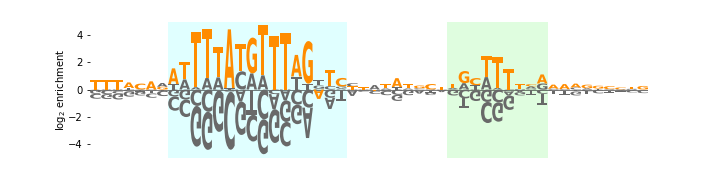
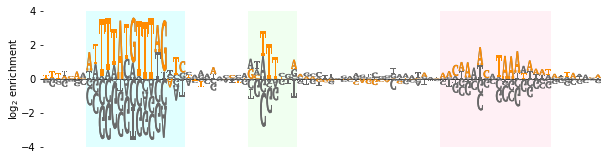
Adding updated ARS figure to examples in documentation. Updated some references in examples also

diff --git a/docs/examples.rst b/docs/examples.rst
@@ -63,8 +63,9 @@ and lables is also demonstrated::
 5' Splice Sites in the Human Genome
 -----------------------------------
 
-We now illustrate a probability generated from 202,764 5'ss sequences in the human transcriptome.
-The data are obtained from [#wong2018]_.
+
+We now illustrate a probability logo computed from all annotated 5' splices sites in the human genome.
+The data are obtained from [#frankish2019]_.
 
 ::
 
@@ -106,8 +107,8 @@ The data are obtained from [#wong2018]_.
 .. image:: _static/examples_images/1C.png
 
 The dashed line indicates intron/exon boundaries. This example shows the use of the keyword argument
-**fade_probabilities**; when True, the characters in each stack are assigned an alpha value equal to
-their height. Stacking order of characters is also set by using the keyword argument **stack_order**:
+**fade_probabilities**; when True, the characters in each stack are assigned an alpha (representing transparency)
+value equal to their height. Stacking order of characters is also set by using the keyword argument **stack_order**:
 if stack_order =  'small_on_top', glyphs are stacked away from x-axis in order of decreasing absolute value.
 **vpad** allows whitespace to be set above and below each character.
 
@@ -115,7 +116,7 @@ Protein Sequence Logo: WW domain
 --------------------------------
 
 We now turn to protein sequence logos. We focus on the WW domain [#WWdomain]_, with the eponymous positions of this
-domain highlighted.
+domain highlighted. We first load the data
 
 ::
 
@@ -143,6 +144,7 @@ Note that only part of this dataframe is displayed due to space considerations::
                    color_scheme='NajafabadiEtAl2017',
                    vpad=.1,
                    width=.8)
+
     logo.ax.set_ylabel('information (bits)')
     logo.style_xticks(anchor=0, spacing=5, rotation=45)
     logo.highlight_position(p=4, color='yellow', alpha=1)
@@ -151,16 +153,17 @@ Note that only part of this dataframe is displayed due to space considerations::
 
 .. image:: _static/examples_images/1D.png
 
-We use the method *logo.highlight_position* to highlight the positions of the 2 W appearing in the above logo. Note that
+We use the method *logo.highlight_position* to highlight the positions of the 2 W's appearing in the above logo. Note that
 the color scheme is part of a number of default color dictionaries Logomaker has. The list of available color schemes
 can be viewed by calling `logomaker.list_color_schemes()`. The user can choose named colors in matplotlib and also
 pass in custom color dictionaries.
 
-Autonomously Replicating Sequence Logo
---------------------------------------
+Autonomously Replicating Sequence (ARS) Logo
+--------------------------------------------
 
-We demonstrate an enrichment logo representing the effects of mutations within the ARS1 replication origin of S. cerevisiae
-on replication efficiency. We begin by loading the dataframe::
+We demonstrate an enrichment logo representing the effects of mutations within the ARS1 replication origin of
+S. cerevisiae on replication efficiency. These data (unpublished) were collected by Justin B. Kinney from a mutARS-seq
+experiment analogous to the one reported by [#Liachko2013]_. We begin by loading the dataframe::
 
     # load ars data
     ars_df = pd.read_csv('matrices/ars_weight_matrix.txt', delim_whitespace=True, index_col=0)
@@ -182,23 +185,26 @@ on replication efficiency. We begin by loading the dataframe::
 | 14  | -0.034017 | 0.438359  | -0.280204 | -0.124138 |
 +-----+-----------+-----------+-----------+-----------+
 
-We then use the function *highlight_position_range* to highlight a range of positions indicating the A (left) and
-the B1 (right) elements.
+We then use the function *highlight_position_range* to highlight a range of positions indicating the A (lightcyan),
+the B1 (honeydew), B2 (lavenderblush) elements for the ARS.
 
 ::
 
     logo = lm.Logo(ars_df,
-               color_scheme='dimgray',
-               font_name='sans')
+                   #ax=ax,
+                   color_scheme='dimgray',
+                   font_name='Luxi Mono')
 
-    logo.style_glyphs_in_sequence(sequence=ars_consensus_seq, color='darkorange')
+    logo.style_glyphs_in_sequence(sequence=ars_seq, color='darkorange')
     logo.style_spines(visible=False)
-    logo.ax.set_ylim([-5,5])
+    logo.ax.set_ylim([-4,4])
     logo.ax.set_ylabel('$\log_2$ enrichment', labelpad=0)
     logo.ax.set_yticks([-4,-2,0,2,4])
     logo.ax.set_xticks([])
-    logo.highlight_position_range(pmin=17, pmax=32, color='lightcyan')
-    logo.highlight_position_range(pmin=42, pmax=50, color='palegreen', alpha=.3)
+
+    logo.highlight_position_range(pmin=7, pmax=22, color='lightcyan')
+    logo.highlight_position_range(pmin=33, pmax=40, color='honeydew')
+    logo.highlight_position_range(pmin=64, pmax=81, color='lavenderblush')
 
 .. image:: _static/examples_images/1E.png
 
@@ -207,7 +213,7 @@ Saliency Logo
 
 Saliency maps of deep neural networks accentuate important nucleotides. We adapt a saliency logo from [#Jaganathan]_
 representing the importance of nucleotides in the vicinity of U2SUR exon 9, as predicted by a deep neural network
-model of splice site selection::
+model of splice site selection (reproduced with author permission)::
 
     # Get exon bounds
     data_df = pd.read_excel('data/Janganathan2018_Fig1D.xlsx')
@@ -252,8 +258,10 @@ References
 
 .. [#sortseq2010] Kinney JB, Murugan A, Callan CG, Cox EC. 2010. `Using deep sequencing to characterize the biophysical mechanism of a transcriptional regulatory sequence`. Proc Natl Acad Sci USA 107:9158-9163 :download:`PDF <sortseq2010.pdf>`.
 
-.. [#wong2018] Wong MS, Kinney JB, Krainer AR. `Quantitative activity profile and context dependence of all 434 human 5' splice sites`. Mol Cell. 2018;71:1012-26 e3.
+.. [#frankish2019] Frankish, A. et al. (2019). `GENCODE reference annotation for the human and mouse genomes.` Nucl Acids Res, 47(D1), D766–D773.
 
 .. [#WWdomain] Fowler, D. M. et al. `High-resolution mapping of protein sequence-function relationships.` Nature Methods 7, 741–746 (2010).
+
+.. [#Liachko2013] Liachko, I. et al. (2013). `High-resolution mapping, characterization, and optimization of autonomously replicating sequences in yeast.` Genome Res, 23(4), 698-704.
 
 .. [#Jaganathan] Jaganathan, K. et al. (2019). `Predicting Splicing from Primary Sequence with Deep Learning.` Cell, 176(3), 535-548.e24.
